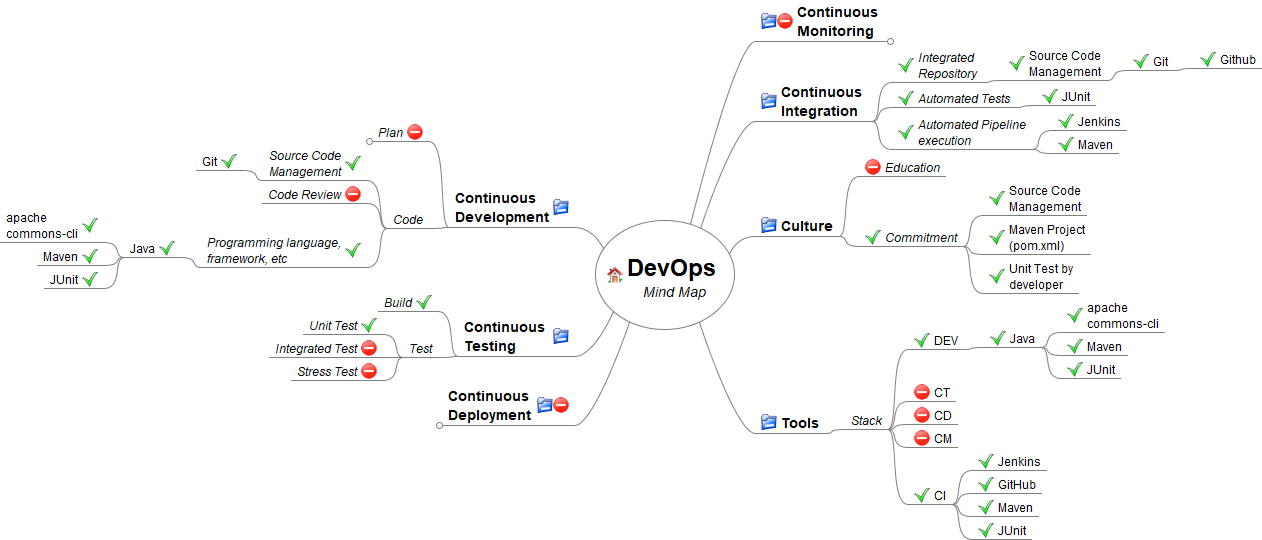
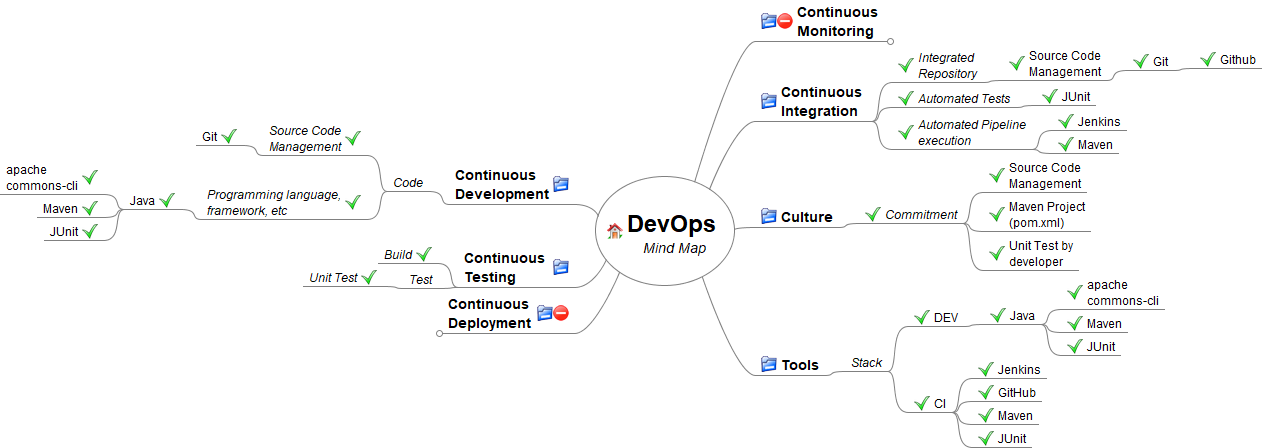
.

diff --git a/doc/mind-maps/MindMap DevOps SCM-Git_CI-Jenkins-Maven-Build-Test_DEV-Java.mm b/doc/mind-maps/MindMap DevOps SCM-Git_CI-Jenkins-Maven-Build-Test_DEV-Java.mm
@@ -31,26 +31,6 @@
 </html></richcontent>
 <font BOLD="true" NAME="SansSerif" SIZE="12"/>
 <icon BUILTIN="folder"/>
-<node CREATED="1560512150274" FOLDED="true" ID="ID_508662412" MODIFIED="1561308775800" TEXT="Plan">
-<font ITALIC="true" NAME="SansSerif" SIZE="12"/>
-<icon BUILTIN="closed"/>
-<node CREATED="1561258133619" ID="ID_437460015" MODIFIED="1561258187573">
-<richcontent TYPE="NODE"><html>
-  <head>
-    
-  </head>
-  <body>
-    <p>
-      Requirement
-    </p>
-    <p>
-      Management
-    </p>
-  </body>
-</html></richcontent>
-<font ITALIC="true" NAME="SansSerif" SIZE="12"/>
-</node>
-</node>
 <node CREATED="1560512156115" ID="ID_718213434" MODIFIED="1561327780318" TEXT="Code">
 <font ITALIC="true" NAME="SansSerif" SIZE="12"/>
 <node CREATED="1561256637139" ID="ID_1263394487" MODIFIED="1561309719818">
@@ -73,10 +53,6 @@
 <font NAME="SansSerif" SIZE="12"/>
 <icon BUILTIN="button_ok"/>
 </node>
-</node>
-<node CREATED="1561256876461" ID="ID_986045375" MODIFIED="1561904269807" TEXT="Code Review">
-<font ITALIC="true" NAME="SansSerif" SIZE="12"/>
-<icon BUILTIN="closed"/>
 </node>
 <node CREATED="1561305933484" ID="ID_876638900" MODIFIED="1561306098267">
 <richcontent TYPE="NODE"><html>
@@ -147,14 +123,6 @@
 <node CREATED="1561256035460" ID="ID_1328115742" MODIFIED="1561330795181" TEXT="Unit Test">
 <font ITALIC="true" NAME="SansSerif" SIZE="12"/>
 <icon BUILTIN="button_ok"/>
-</node>
-<node CREATED="1561256589600" ID="ID_1850640344" MODIFIED="1561904483915" TEXT="Integration Test">
-<font ITALIC="true" NAME="SansSerif" SIZE="12"/>
-<icon BUILTIN="closed"/>
-</node>
-<node CREATED="1561258283604" ID="ID_1093836150" MODIFIED="1561330104894" TEXT="Stress Test">
-<font ITALIC="true" NAME="SansSerif" SIZE="12"/>
-<icon BUILTIN="closed"/>
 </node>
 </node>
 </node>
@@ -279,10 +247,6 @@
   </body>
 </html></richcontent>
 <icon BUILTIN="folder"/>
-<node CREATED="1561156922814" ID="ID_284583337" MODIFIED="1561306886165" TEXT="Education">
-<font ITALIC="true" NAME="SansSerif" SIZE="12"/>
-<icon BUILTIN="closed"/>
-</node>
 <node CREATED="1561156922814" ID="ID_423511767" MODIFIED="1561306674836" TEXT="Commitment">
 <font ITALIC="true" NAME="SansSerif" SIZE="12"/>
 <icon BUILTIN="button_ok"/>
@@ -420,15 +384,6 @@
 <icon BUILTIN="button_ok"/>
 </node>
 </node>
-</node>
-<node CREATED="1561306459728" ID="ID_547342853" MODIFIED="1561306894509" TEXT="CT">
-<icon BUILTIN="closed"/>
-</node>
-<node CREATED="1561306471699" ID="ID_976994284" MODIFIED="1561306896220" TEXT="CD">
-<icon BUILTIN="closed"/>
-</node>
-<node CREATED="1561306479969" ID="ID_657077696" MODIFIED="1561306896707" TEXT="CM">
-<icon BUILTIN="closed"/>
 </node>
 <node CREATED="1561305851017" ID="ID_1823599983" MODIFIED="1561306138340" TEXT="CI">
 <icon BUILTIN="button_ok"/>

diff --git a/README.md b/README.md
@@ -51,7 +51,7 @@ A medida que a maturidade das práticas e experiências são ampliadas, faz-se n
 
 * [`Cenario_SCM-Git_CI-Bamboo-Build-Test-Package_DEV-Java-CLI-Maven`](./doc/README_Cenario_SCM-Git_CI-Bamboo-Maven-Build-Test-Package_DEV-Java-Cli.md): Executa um Projeto/Plano(s)/Tarefas (Pipeline) do Bambo que baixa projeto do SCM(Source Code Management)  GitHub, executa o CI(Continuous Integration) com build do projeto usando Maven, executa UnitTest(Testes Unitários) com JUnit e empacota o aplicativo para Deploy.
 
-* [`Cenario_SCM-BitBucket_CI-Bamboo-Build-Package_DEV-Cobol`](./doc/README_Cenario_SCM-BitBucket_CI-Bamboo-Build-Package_DEV-Cobol.md): Executa um projeto/plano/tarefas de um Bamboo __pipeline__, que baixa o projeto do __SCM (Source Code Management)__ pela ferramenta  __GitHub__, executa o __CI(Continuous Integration)__ com __Build__ (compilação) e o __Package__ (empacotamento) do binário executável para futuramente (em outros cenários) realizar o __Deploy__ (distribuições) entre os ambiente.
+* [`Cenario_SCM-BitBucket_CI-Bamboo-Build-Package_DEV-Cobol`](./doc/README_Cenario_SCM-BitBucket_CI-Bamboo-Build-Package_DEV-Cobol.md): Executa um projeto/plano/tarefas de um Bamboo __pipeline__, que baixa o projeto do __SCM (Source Code Management)__ pela ferramenta  __GitHub__, executa o __CI(Continuous Integration)__ com __Build__ (compilação) e o __Package__ (empacotamento) do binário executável.
 
 ---
 ## I - Referências
